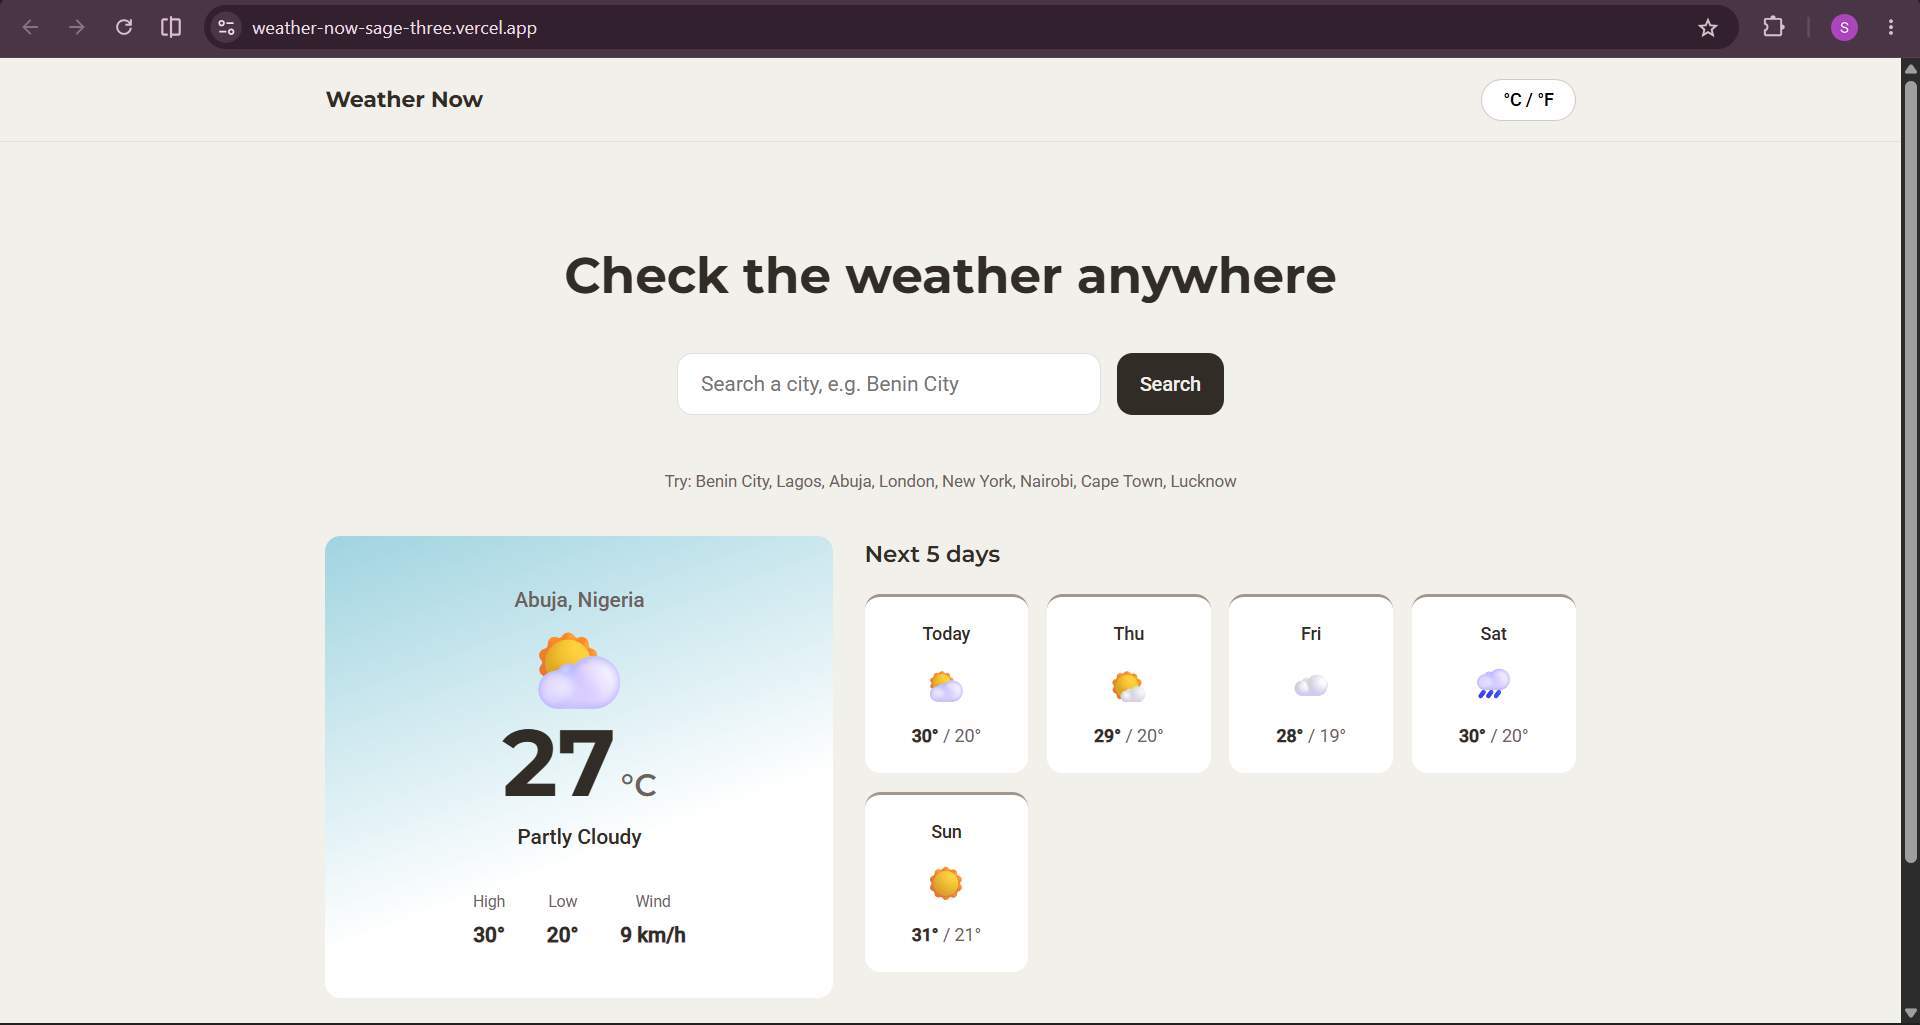
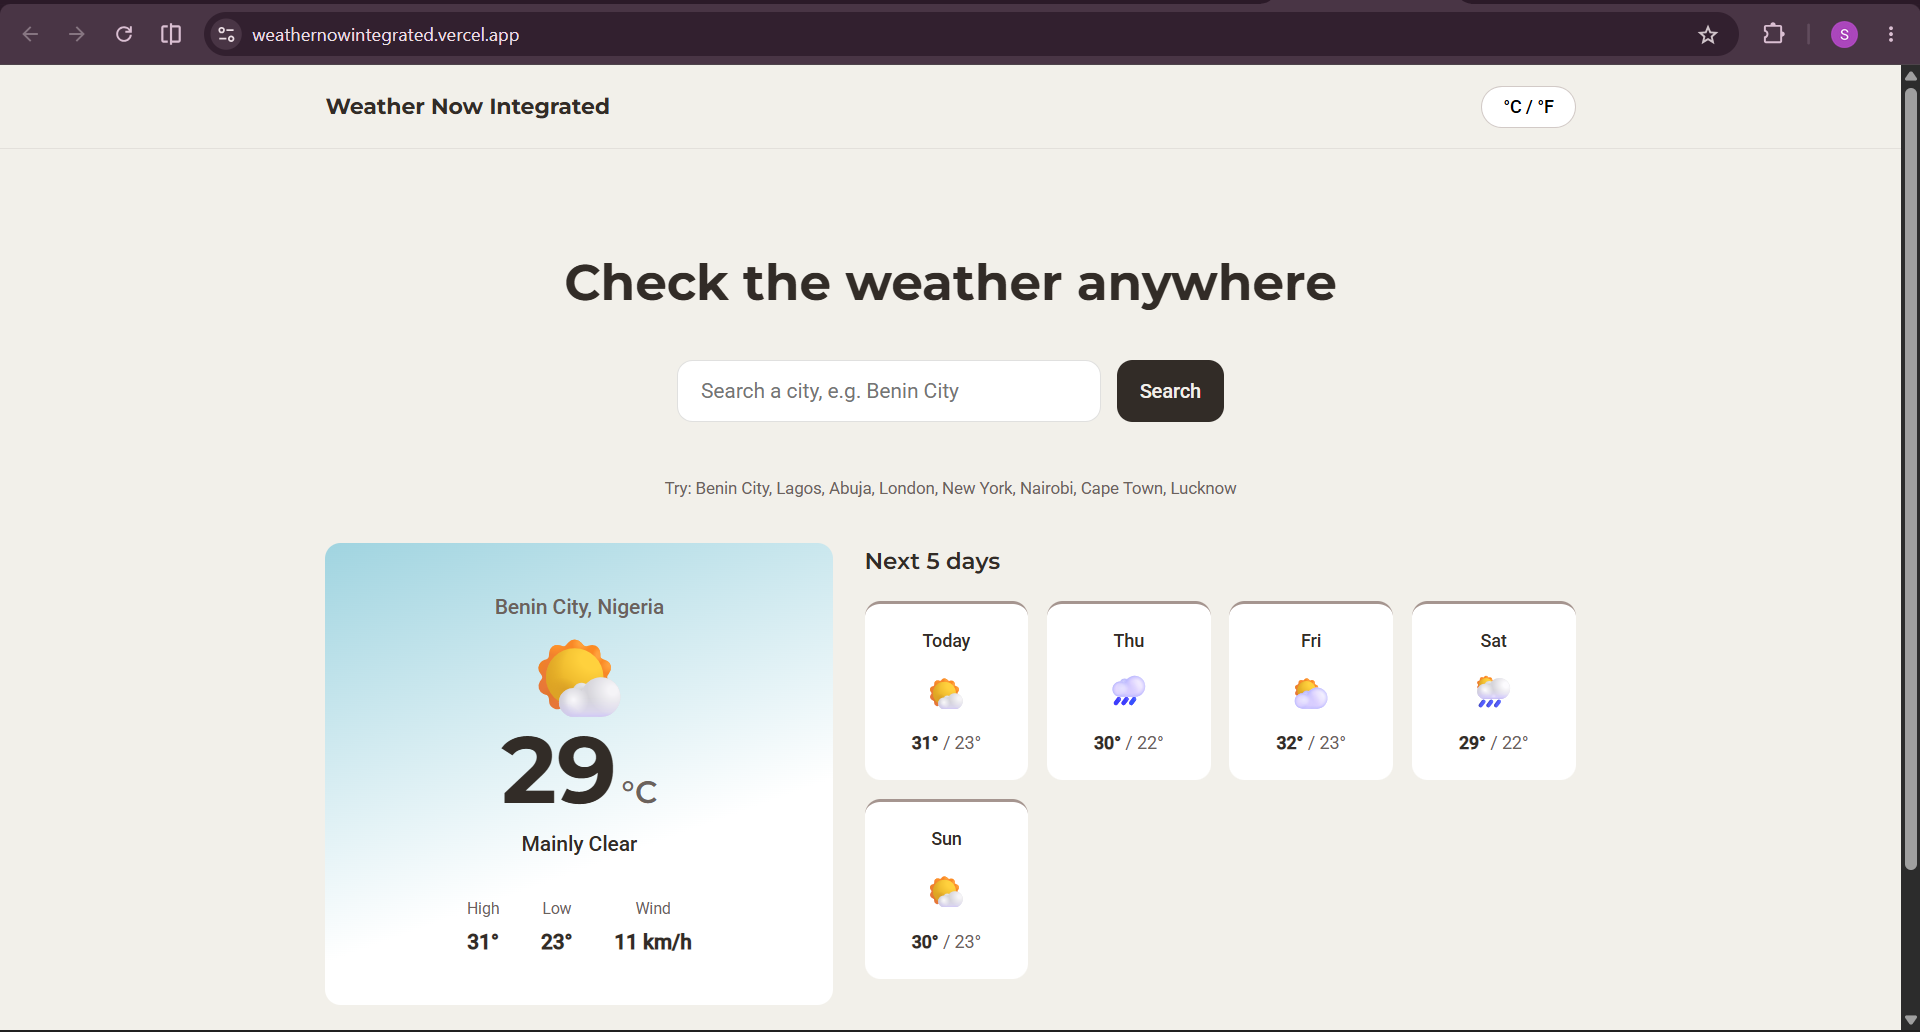
Live Links Updated, Screenshot changed and project structure updated

diff --git a/README.md b/README.md
@@ -5,8 +5,8 @@ A Complete full-stack weather application, built in four stages across the Decod
 ![Weather Now screenshot](Screenshot.png)
 
 ## Live demo
-- **Site:** _Vercel_
-- **API docs:** _backend URL_/docs
+[View The Live Demo](https://weathernowintegrated.vercel.app/)
+[View The API Docs](https://weathernowbackend.vercel.app/docs/)
 
 ## What this project demonstrates
 | Stage | What it added | Tech |
@@ -23,6 +23,7 @@ Each stage was originally built and verified as its own milestone. This repo bri
 ├── index.html      # Page structure and content
 ├── styles.css      # All styling, tokens, and responsive breakpoints
 ├── script.js       # Local weather dataset, rendering, unit toggle
+├── Screenshot.png  # Live Page Screenshot
 └── README.md
 ```
 
